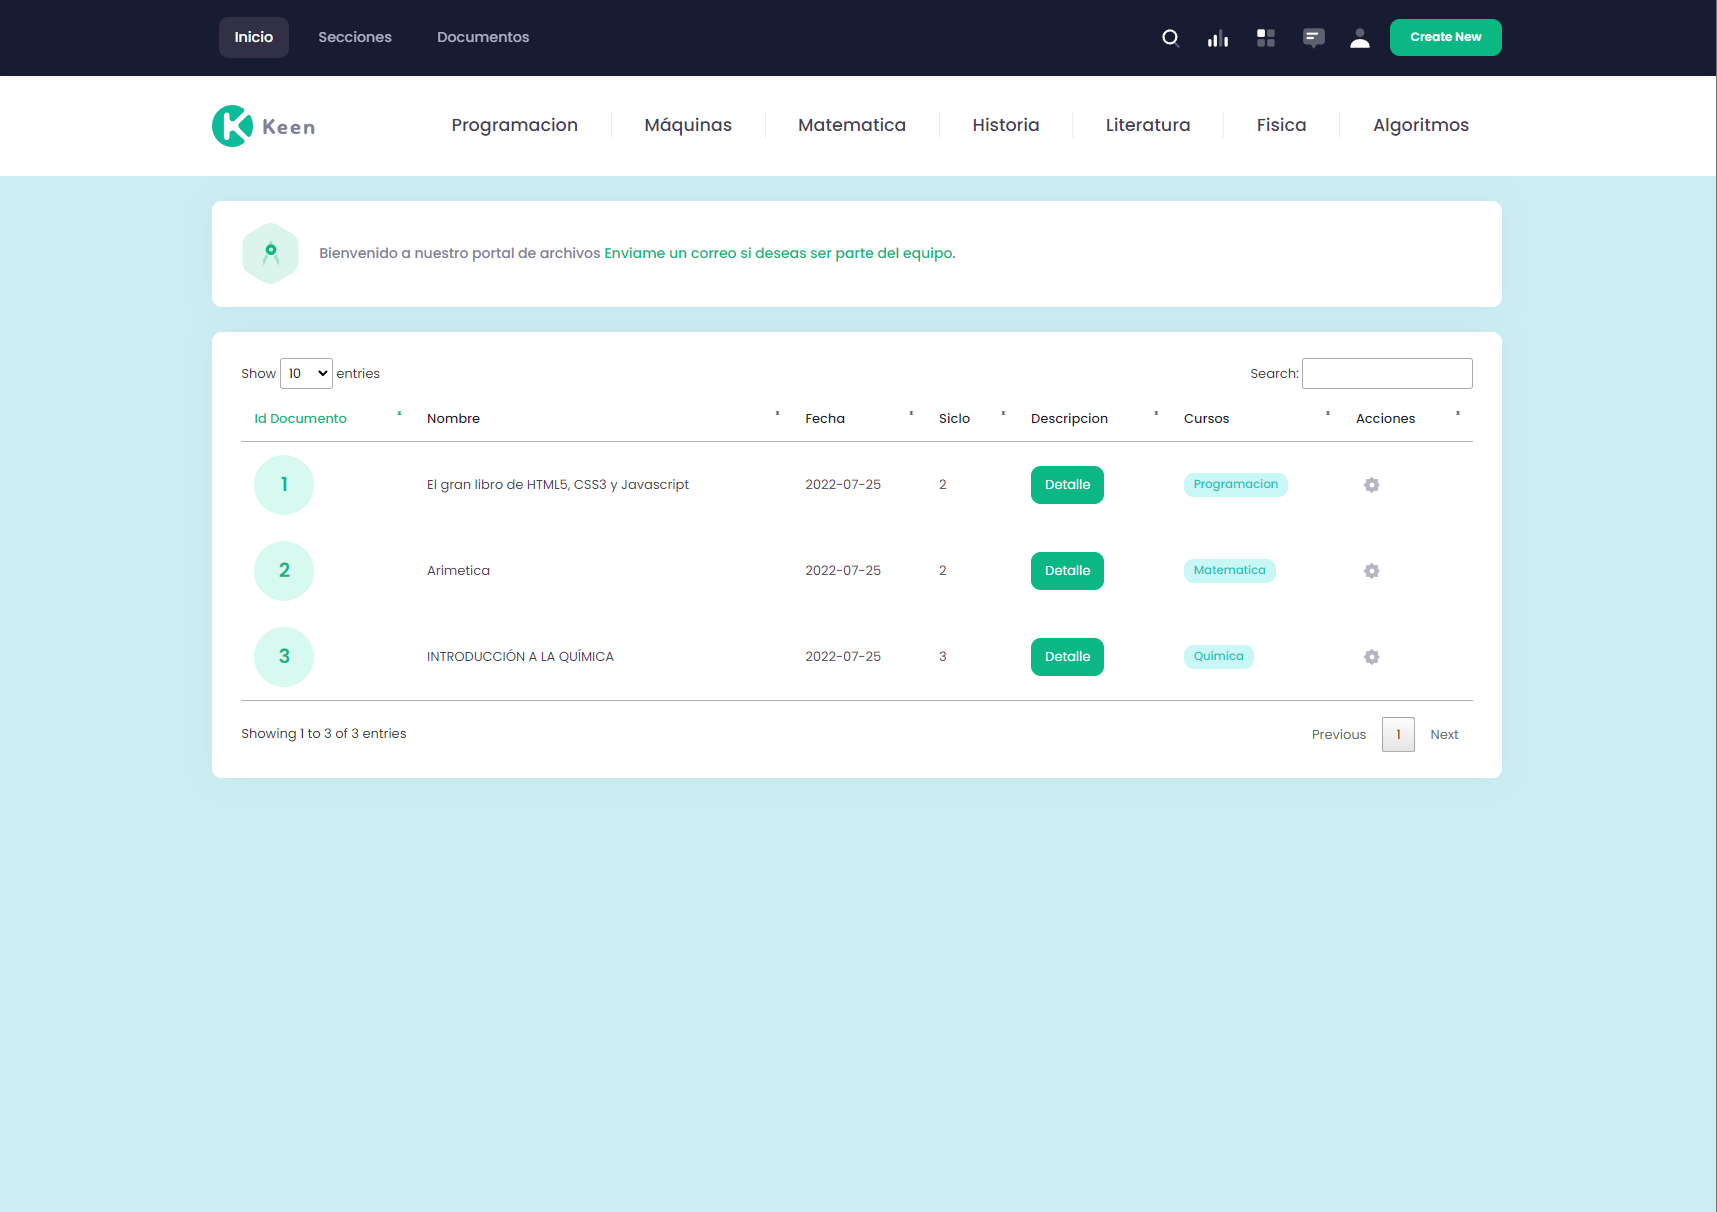
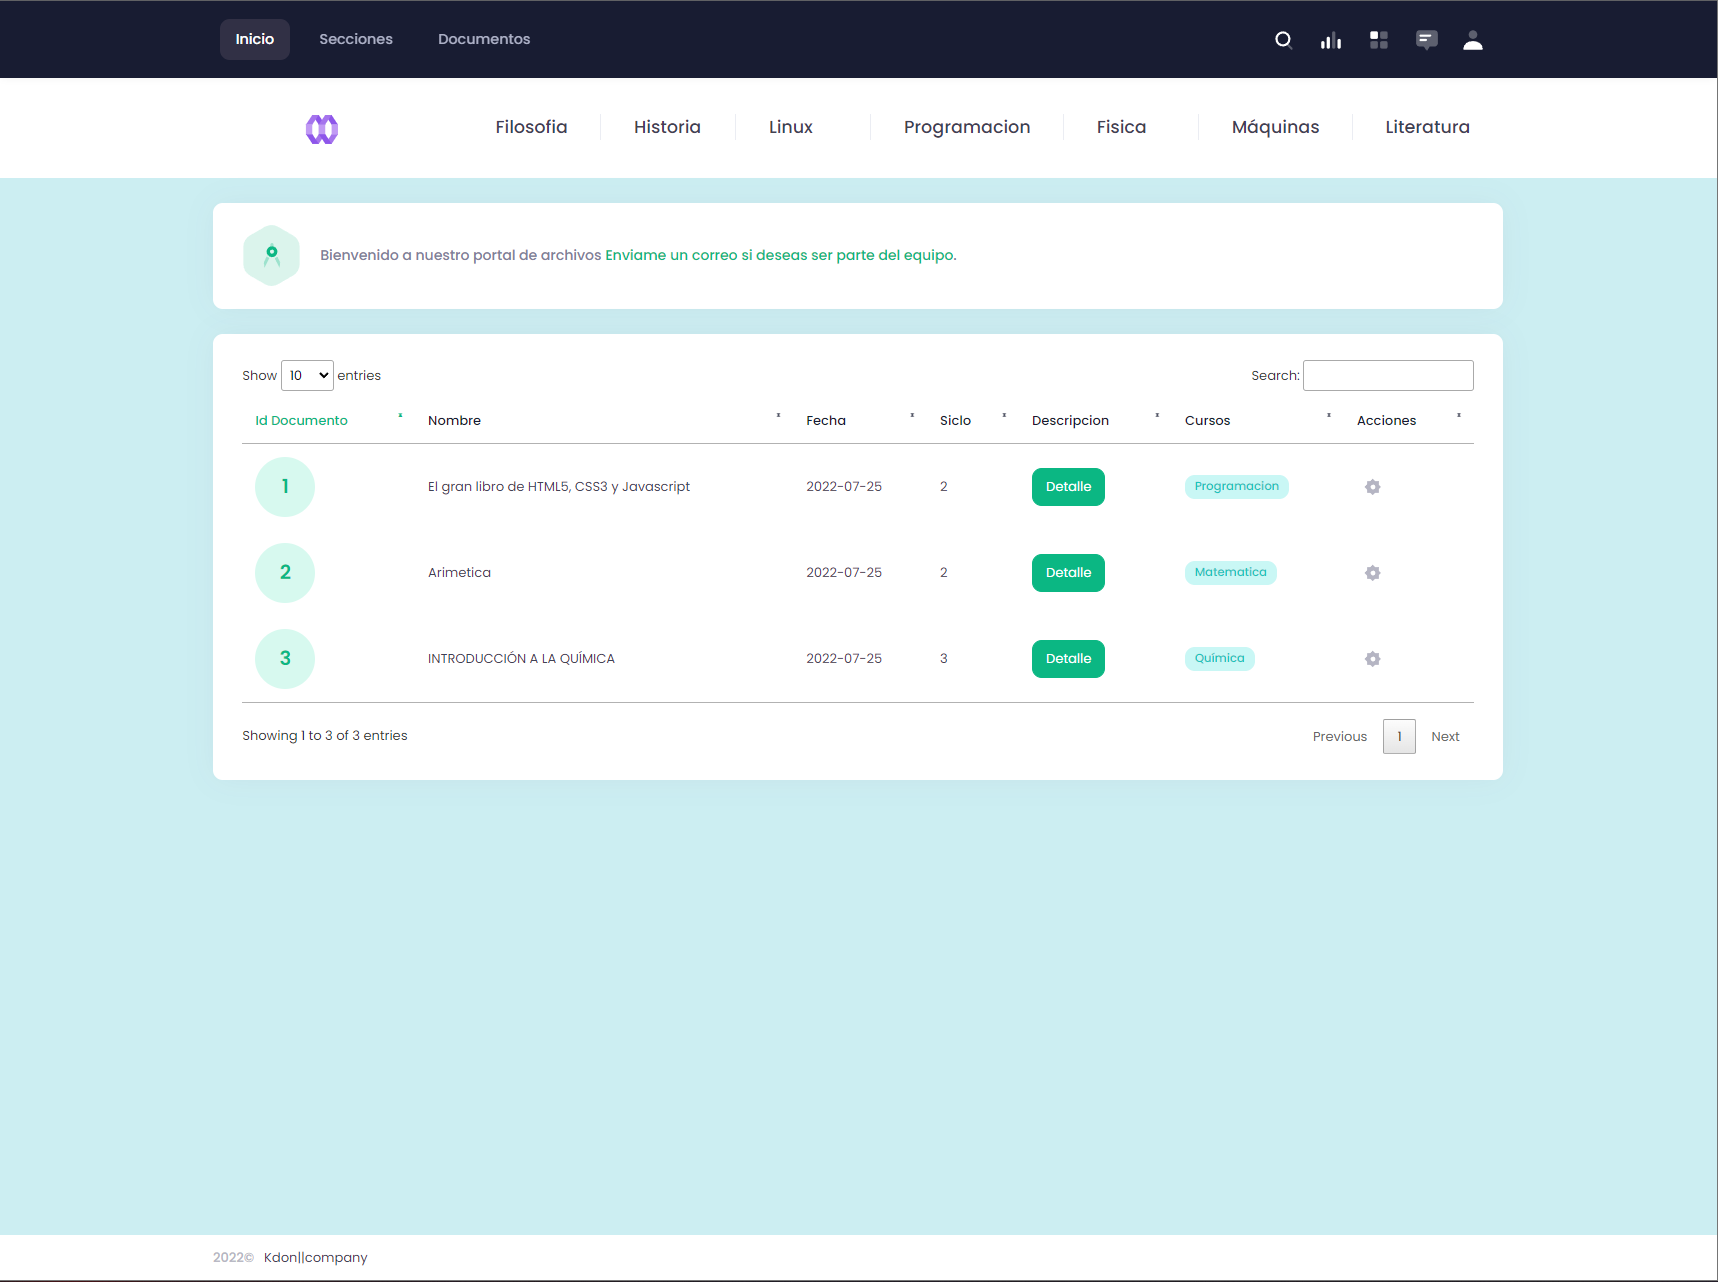
kdon  version 0.0.10.0 menu

diff --git a/template/items/categorias.php b/template/items/categorias.php
@@ -5,8 +5,8 @@
         <div class="d-none d-lg-flex align-items-center flex-wrap w-250px">
             <!--begin::Logo-->
             <a href="index.html">
-                <img alt="Logo" src="https://preview.keenthemes.com/keen/theme/demo3/dist/assets/media/logos/logo-4.svg"
-                    class="max-h-50px" />
+                <img alt="Logo" width="250px" src="assets/media/demos/Homey-Color.svg"
+                    class="max-h-50px" type="img/svg" />
             </a>
             <!--end::Logo-->
         </div>

diff --git a/template/items/menu.php b/template/items/menu.php
@@ -1,7 +1,7 @@
 <div id="kt_header_mobile" class="header-mobile header-mobile-fixed">
     <!--begin::Logo-->
     <a href="index.html">
-        <img alt="Logo" src="https://preview.keenthemes.com/keen/theme/demo3/dist/assets/media/logos/logo-4.svg"
+        <img alt="Logo" width="150px" src="assets/media/demos/Homey-Color.svg"
             class="max-h-30px" />
     </a>
     <div class="d-flex align-items-center">
